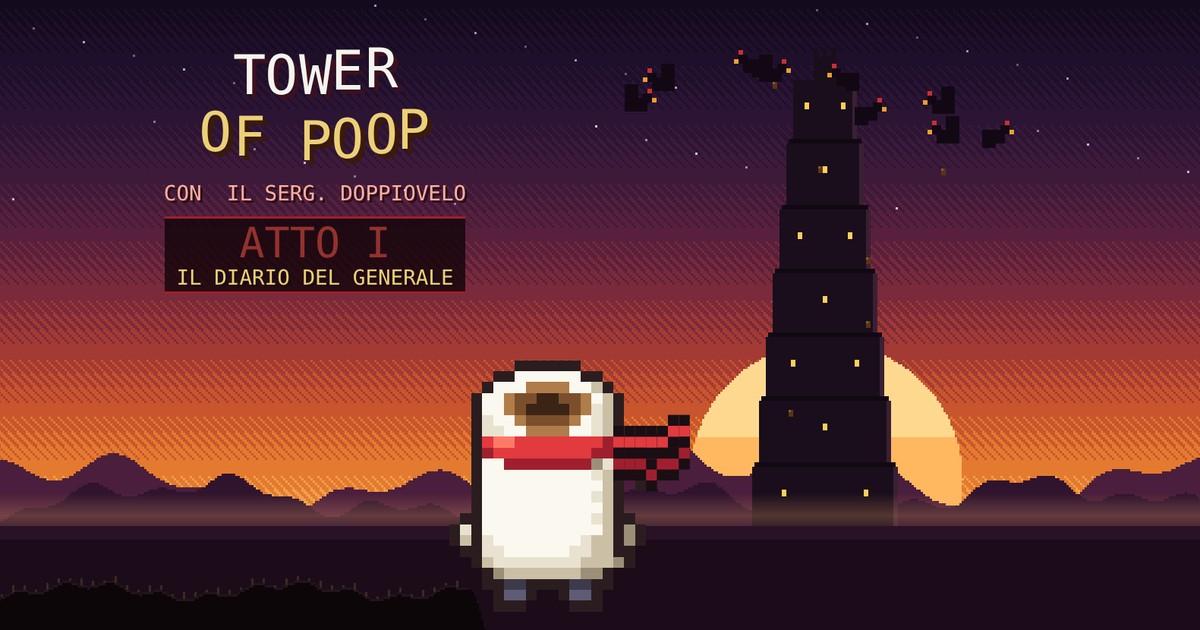
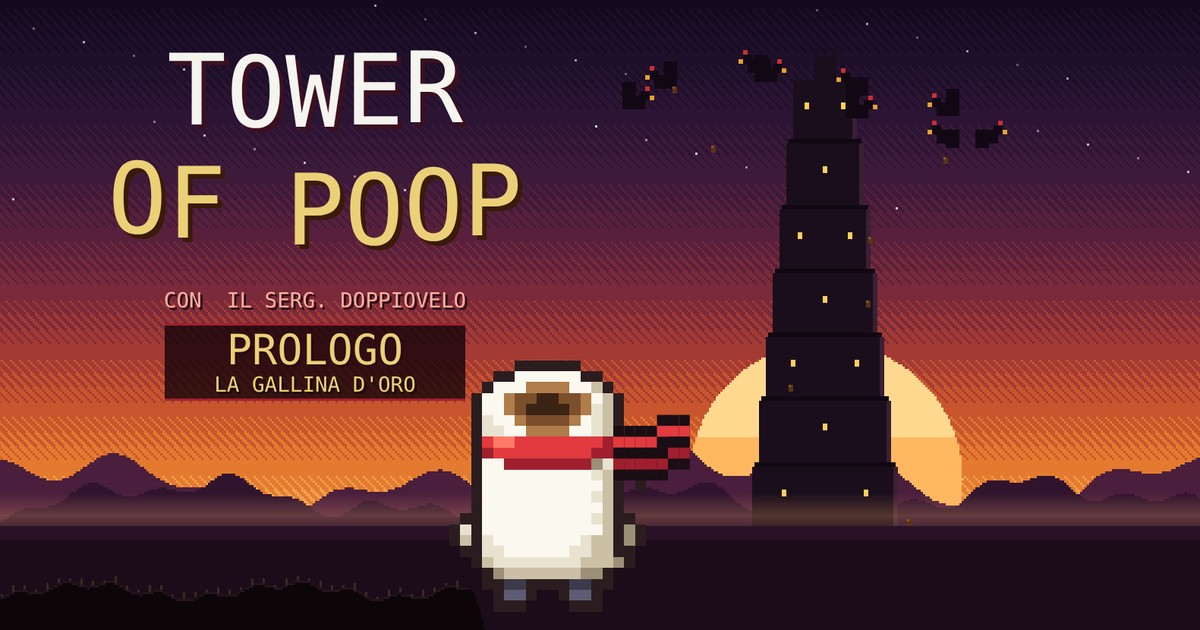
Preview image: PROLOGUE label and a bigger title
Claude-Session: https://claude.ai/code/session_01DAUgbKHXpAstmYQjE4nBJ9

diff --git a/tools/og_image.js b/tools/og_image.js
@@ -1,15 +1,21 @@
 // Link-preview image (1200x630) from the real title screen, with Two-Ply bigger and closer to the tower.
-// Usage: ./build.sh && node tools/og_image.js 2.4 -4 0   -> build/og-raw.png, then crop with tools/og_crop.py
+// Usage: ./build.sh && node tools/og_image.js 2.4 -4 0 1.8   (hero scale, hero x, hero y, title scale)  -> build/og-raw.png, then crop with tools/og_crop.py
 const fs=require('fs'),path=require('path');
 const OG=path.resolve(__dirname,'../build/tw_og.html');{let s=fs.readFileSync(path.resolve(__dirname,'../build/tw.html'),'utf8');
  const a="const sc=Math.max(1,Math.round(h/150)),hx=Math.round(B.cx1*.78),hy=B.ctop-24*sc+2*sc;";
  if(!s.includes(a))throw new Error('title hero line not found');
  s=s.replace(a,"const sc=Math.max(1,Math.round(h/150))*(window.__OGS||1),hx=Math.round(window.__OGX!=null?B.cx1+window.__OGX*Math.max(1,Math.round(h/150)):B.cx1*.78),hy=B.ctop-24*sc+2*sc+(window.__OGY||0);");
+ const T=[["const cx=Math.round(W*.3),amp=","const OGT=window.__OGT||1,cx=Math.round(W*.3),amp="],
+  ["waveText('TOWER',cx+shk,Math.round(H*.06),24,","waveText('TOWER',cx+shk,Math.round(H*.06),24*OGT,"],
+  ["waveText('OF POOP',cx-shk,Math.round(H*.06)+28,24,","waveText('OF POOP',cx-shk,Math.round(H*.06)+28*OGT,24*OGT,"],
+  ["txt('STARRING  SGT. TWO-PLY',cx,Math.round(H*.06)+60,","txt('STARRING  SGT. TWO-PLY',cx,Math.round(H*.06)+56*OGT+6,"],
+  ["y0=Math.round(H*.06)+80,","y0=Math.round(H*.06)+56*OGT+26,"],["pl=.75+.25*Math.sin(t*2.2)","pl=1"]];
+ for(const [a,b] of T){if(!s.includes(a))throw new Error('missing: '+a);s=s.replace(a,b);}
  fs.writeFileSync(OG,s);}
 const {chromium}=require('playwright');(async()=>{const b=await chromium.launch({executablePath:'/opt/pw-browsers/chromium'});
-const [S,X,Y]=process.argv.slice(2).map(Number);
+const [S,X,Y,T]=process.argv.slice(2).map(Number);
 const p=await b.newPage({viewport:{width:960,height:600},deviceScaleFactor:2});
 await p.goto('file://'+OG);await p.waitForTimeout(800);await p.evaluate(()=>{localStorage.clear();localStorage.setItem('top_lang','it')});await p.reload();await p.waitForTimeout(1500);
-await p.evaluate(([S,X,Y])=>{window.__OGS=S;window.__OGX=X;window.__OGY=Y;},[S,X,Y]);
-await p.mouse.click(480,300);await p.waitForTimeout(3500);await p.evaluate(()=>{__T.SV.deaths=1;});await p.waitForTimeout(2500);
+await p.evaluate(([S,X,Y,T])=>{window.__OGS=S;window.__OGX=X;window.__OGY=Y;window.__OGT=T||1;},[S,X,Y,T]);
+await p.mouse.click(480,300);await p.waitForTimeout(3500);await p.waitForTimeout(2500);
 const c=await p.$('canvas');await c.screenshot({path:require('path').resolve(__dirname,'../build/og-raw.png')});await b.close();})();
